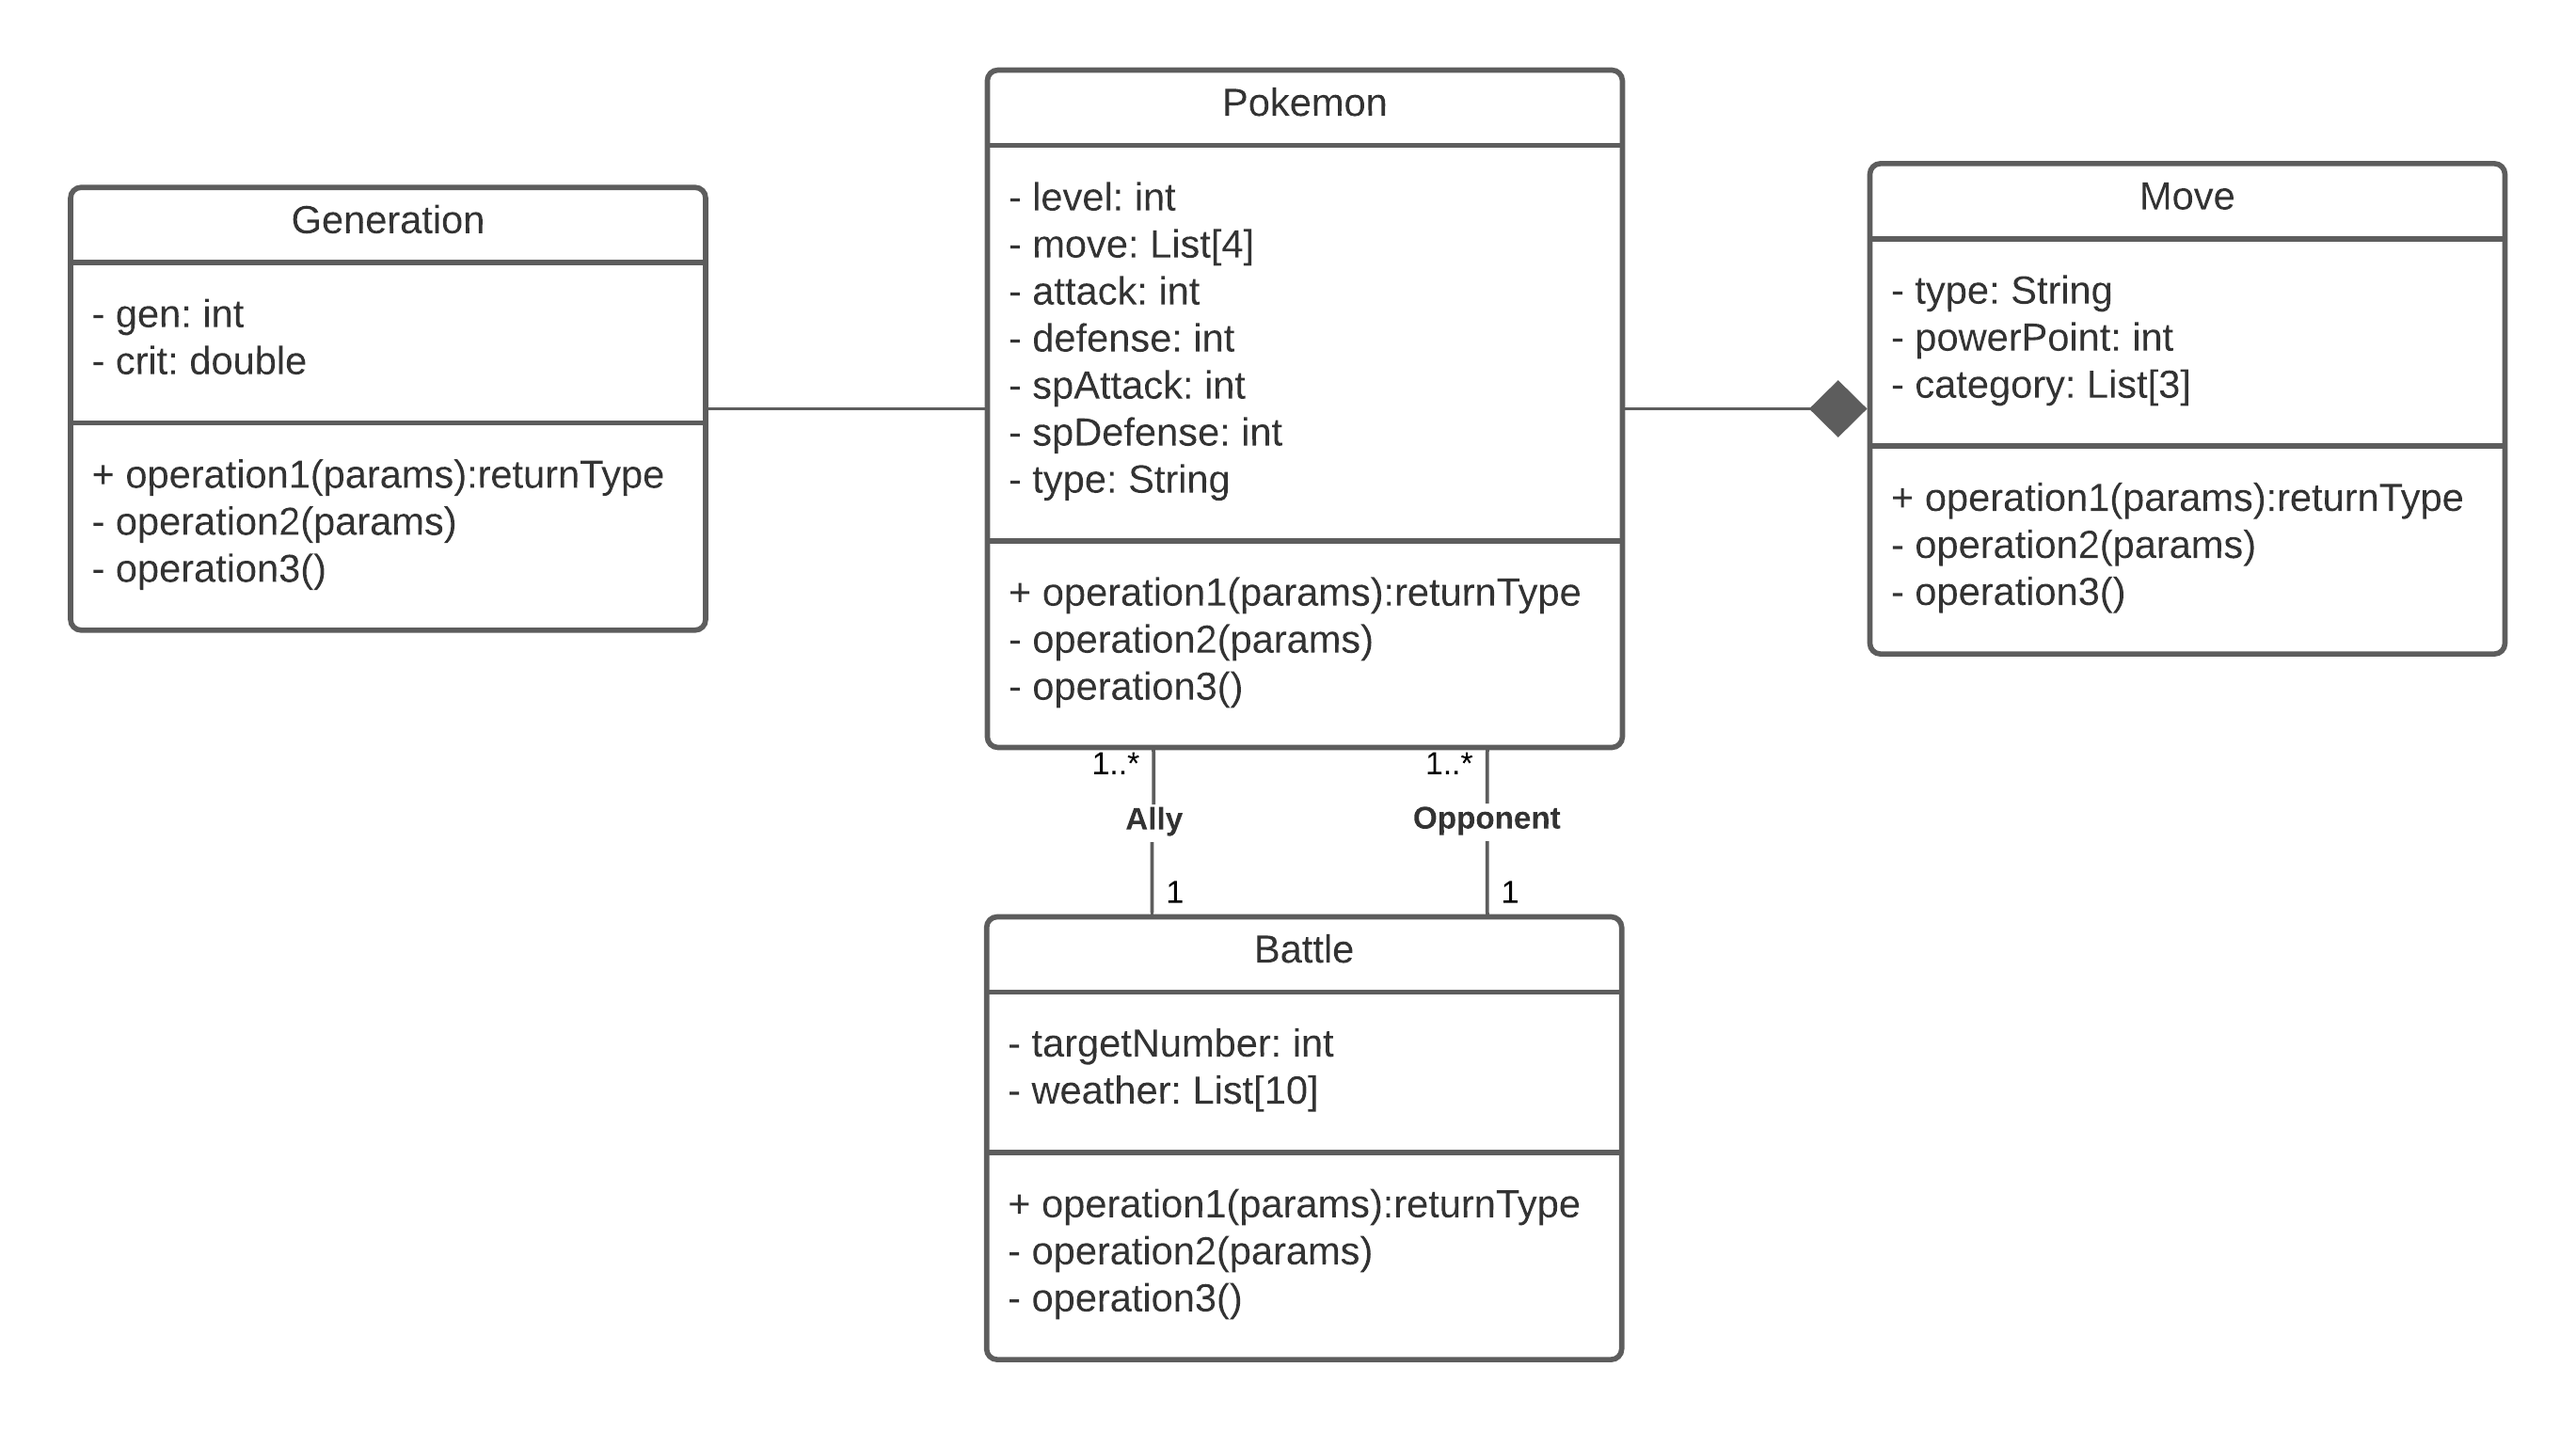
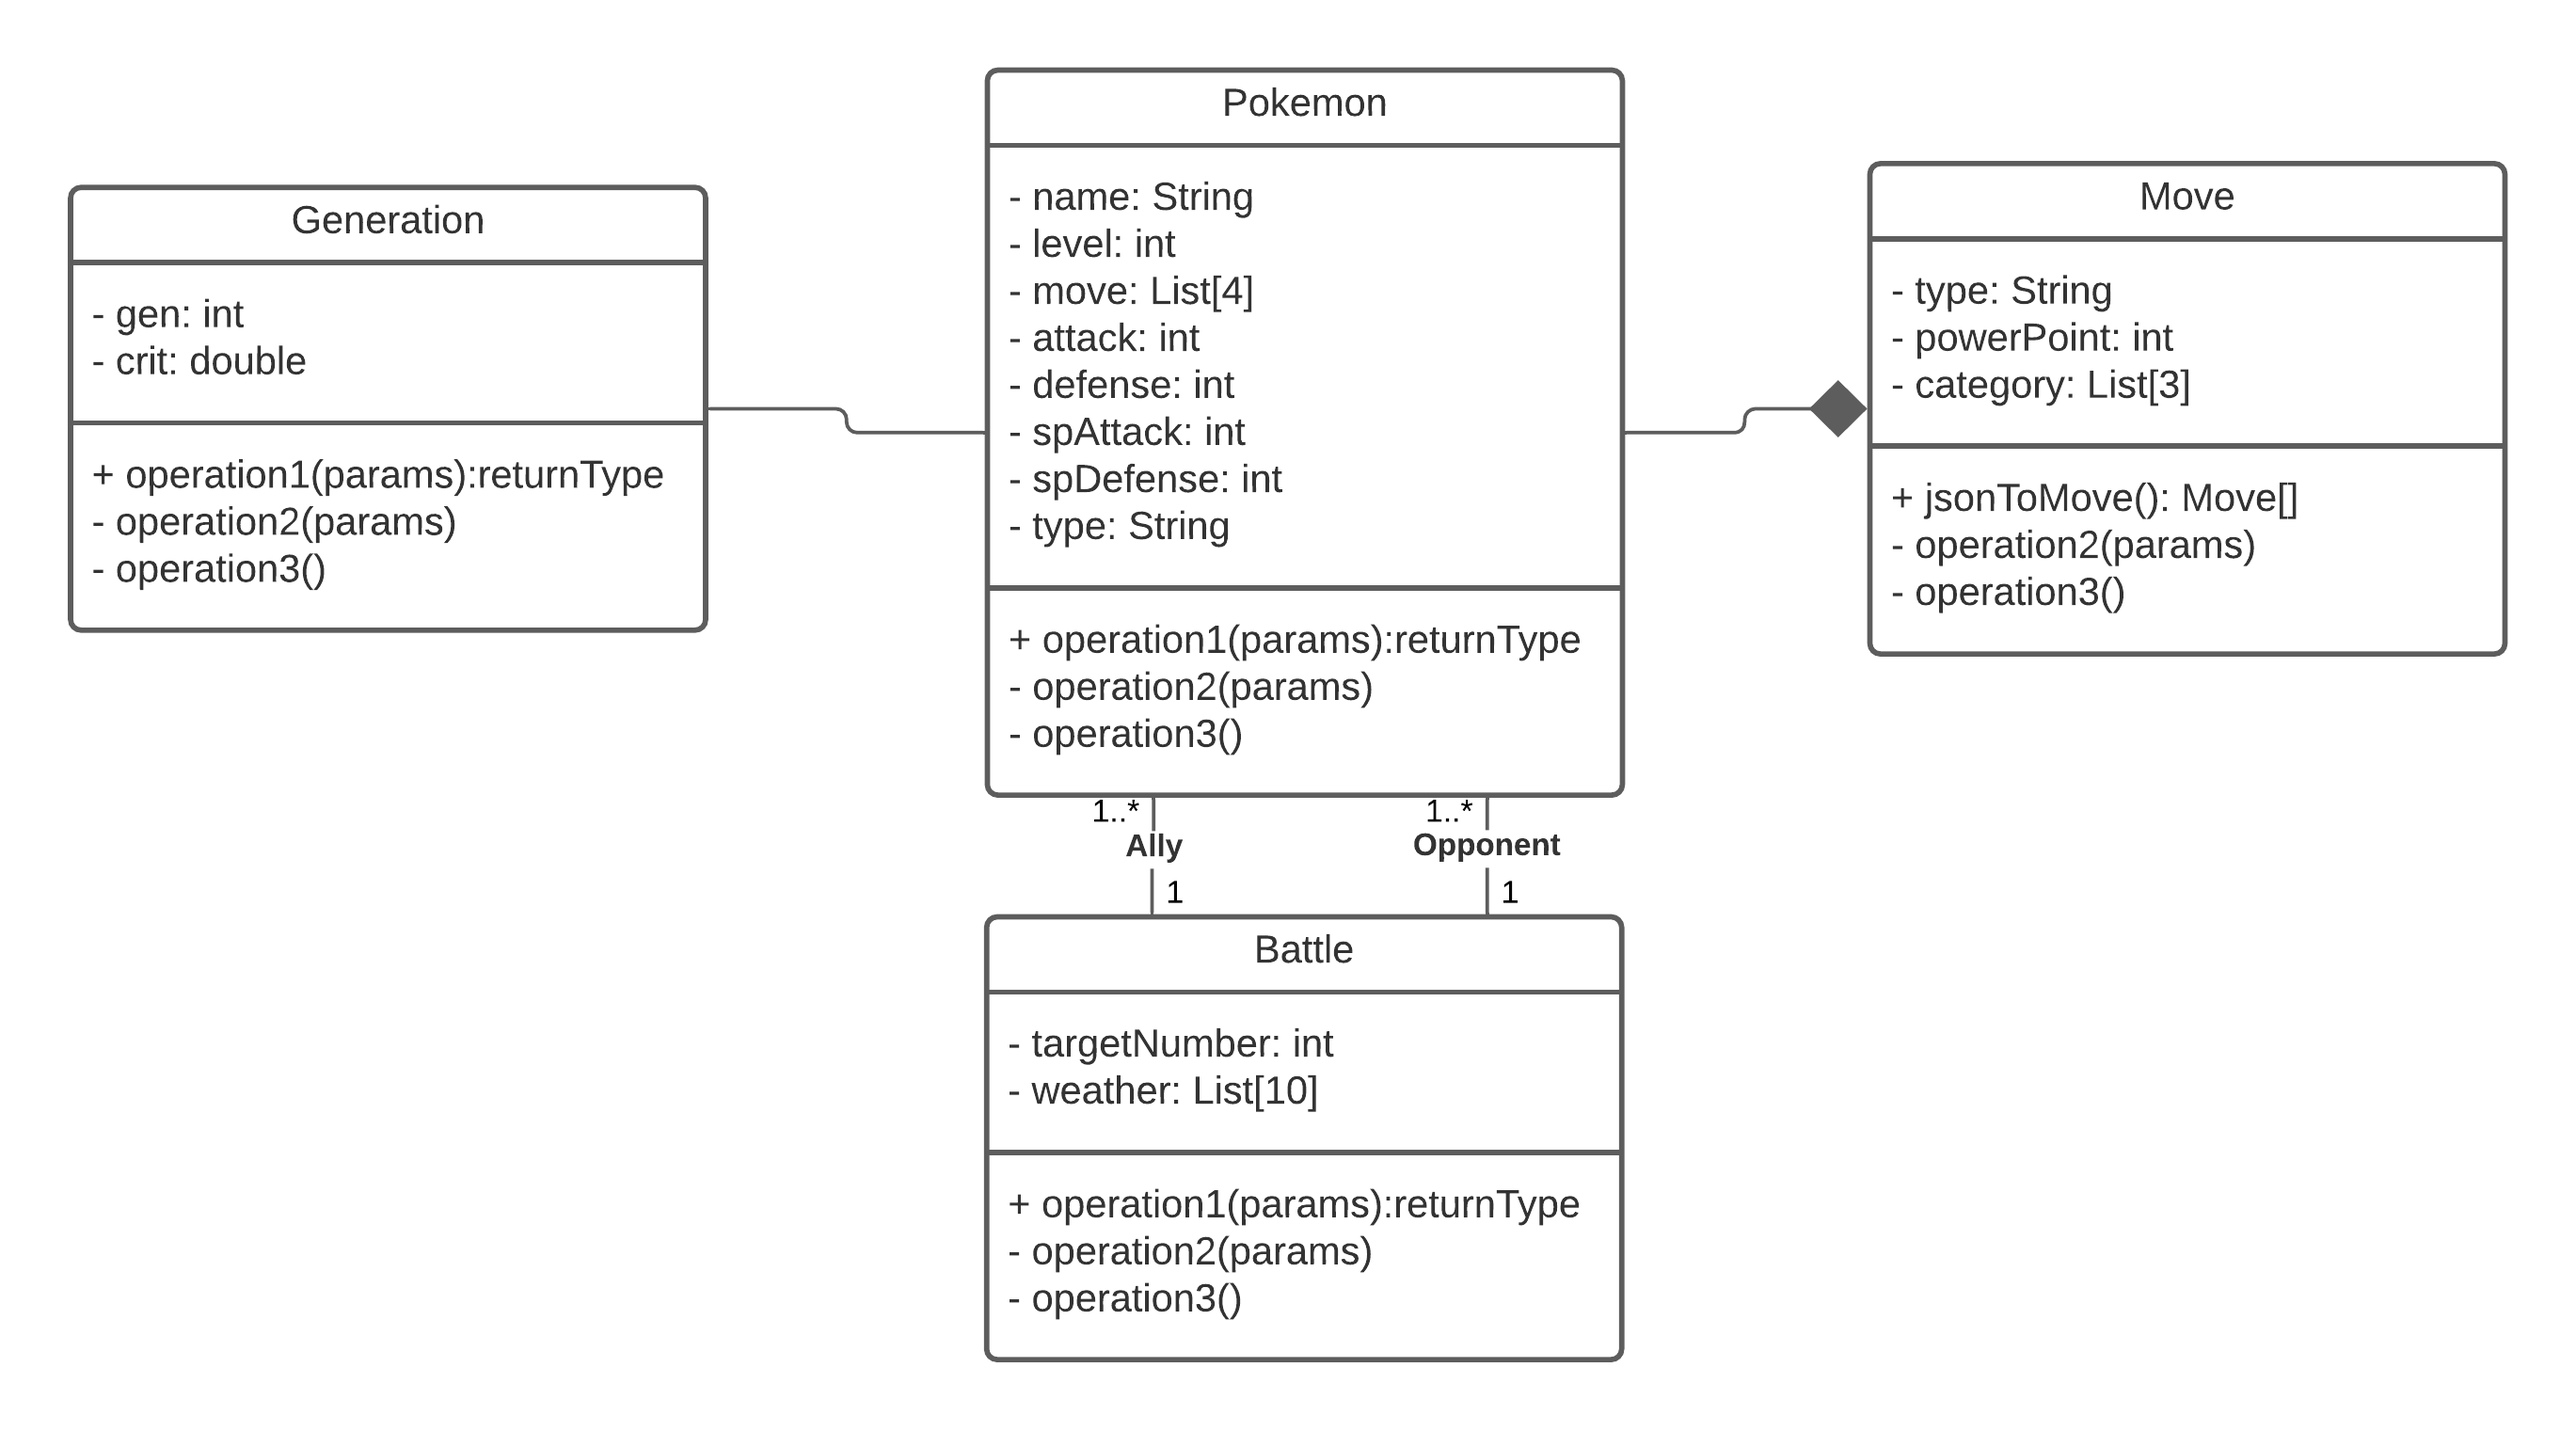
Added 'name' to Pokemon object soon to add pokemon.json

diff --git a/main.py b/main.py
@@ -21,7 +21,7 @@ def jsonToMoves():
 layoutMove = [[sg.Text("test")], [sg.Combo(jsonToMoves(), key='moveCombo1', size=(25))], [sg.Combo(jsonToMoves(), key='moveCombo2', size=(25))],
               [sg.Combo(jsonToMoves(), key='moveCombo3', size=(25))], [sg.Combo(jsonToMoves(), key='moveCombo4', size=(25))], [sg.Button("Info")]]
 
-layoutMain = [[sg.Text("Welcome to the Pokelutor. Please choose a pokemon and it's specification")],
+layoutMain = [[sg.Text("Welcome to the Pokelutor.\nPlease choose a pokemon \nand it's specification", size=(25,3))],
               [sg.Combo(["Bulbasaur", "Squirtle", "Charmander"], key="pokemonCombo")],[sg.Button("Create")]]#if pokemon.json is added dont forget to remove the brackets when calling the function
 
 # pokemon = Pokemon(1, [layout.__getitem__(1), layout.__getitem__(2), layout.__getitem__(3), layout.__getitem__(4)], 1, 1, 1, 1, "Fire")
@@ -55,9 +55,8 @@ if (event == 'Info'):
     pokemonMoveList.append(values['moveCombo3'][0])
     pokemonMoveList.append(values['moveCombo4'][0])
 
-    pokemon = Pokemon(12, pokemonMoveList, 15, 20, 16, 21, "Fire")
+    pokemon = Pokemon(valuesPokemon, 12, pokemonMoveList, 15, 20, 16, 21, "Fire")
 
     print(pokemon.toString())
 
-wind2222eee                             ow.close()
-eeeeeeeeeeeeeeeeeeeeeeeeeeeeeeee//eeeeeeeeeeeeeeeeeeeeee/E??eee                 e                                                                                                                                                                                                                                                                                                                                                                                                                                                                                                                                                                                                                                                                                                                                                                                                                                                                                                                                                                                                                                                                                                                                                                                                                                                                                                                                                                                                                                                                                                                                                                                                                                                                                                                                                                                                                                                                                                                                                                                                                                                                                                                                                                                                                                                                                                                                                                                                                                                                                                                                                                                                                                                                                                                                                                                                                                                                                                                                                                                                                                                                                                                                                                                                                                                                                                                                                                                                                                                                                                                                                                                                                                                                                                                                                                                                                                                                                                                                                                                                                                                                                                                                                                                                                                                                                                                                                                                ee
+    window.close()

diff --git a/Pokemon.py b/Pokemon.py
@@ -1,5 +1,6 @@
 class Pokemon:
-    def __init__(self, level, moves, attack, defense, spAttack, spDefense, type):
+    def __init__(self, name, level, moves, attack, defense, spAttack, spDefense, type):
+        self.name = name
         self.level = level
         self.moves = moves
         self.attack = attack
@@ -10,4 +11,5 @@ class Pokemon:
 
     def toString(self):
 
-        return self.level + " " + self.moves + " " + self.attack + " " + self.defense + " " + self.spAttack + " " + self.spDefense + " " + self.type
+        return str(self.name) + " " + str(self.level) + " " + str(self.moves) + " " + str(self.attack) + " " \
+               + str(self.defense) + " " + str(self.spAttack) + " " + str(self.spDefense) + " " + str(self.type)
